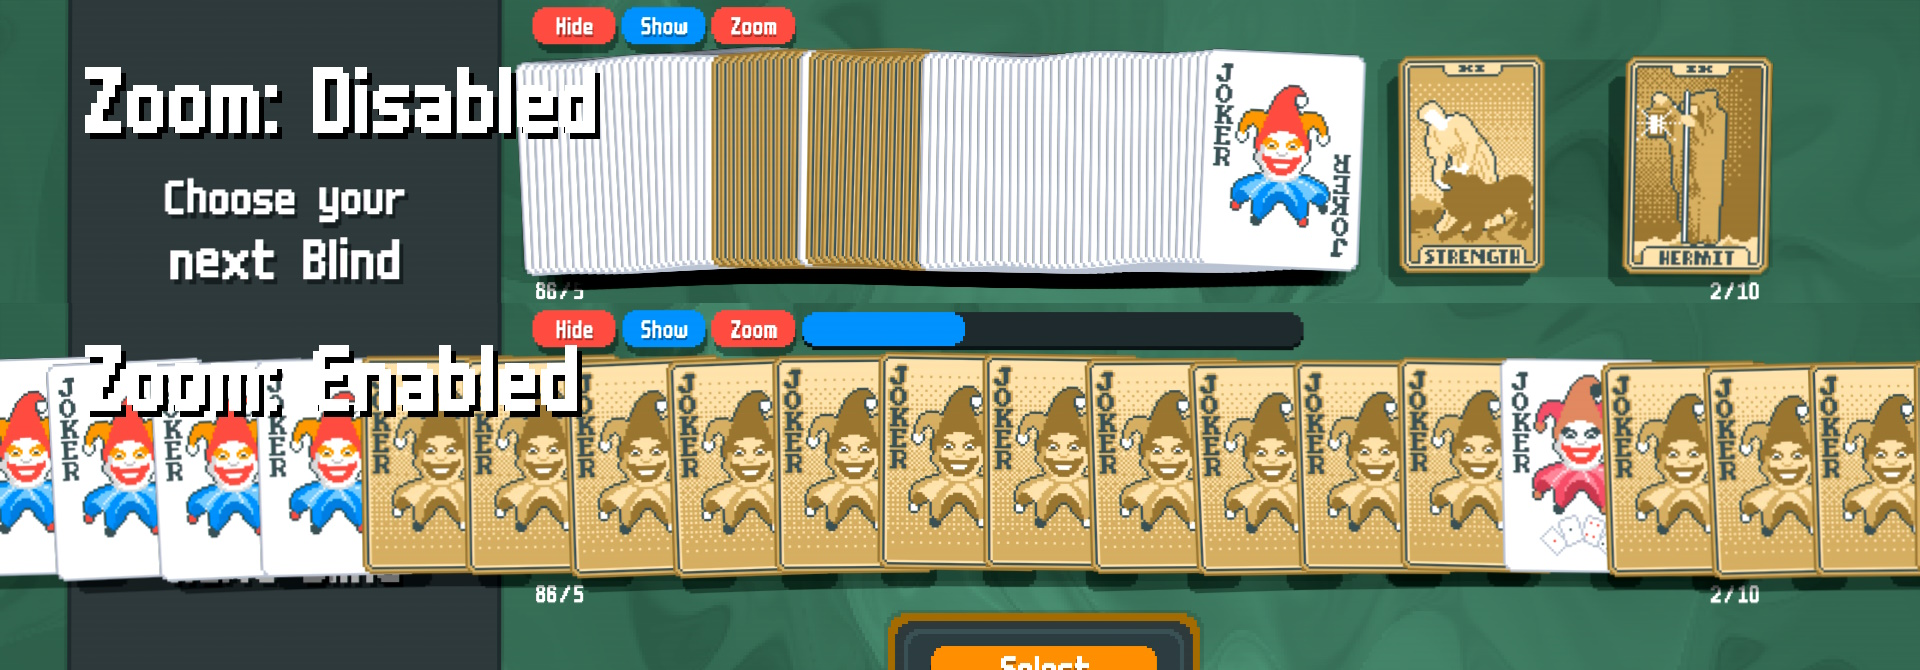
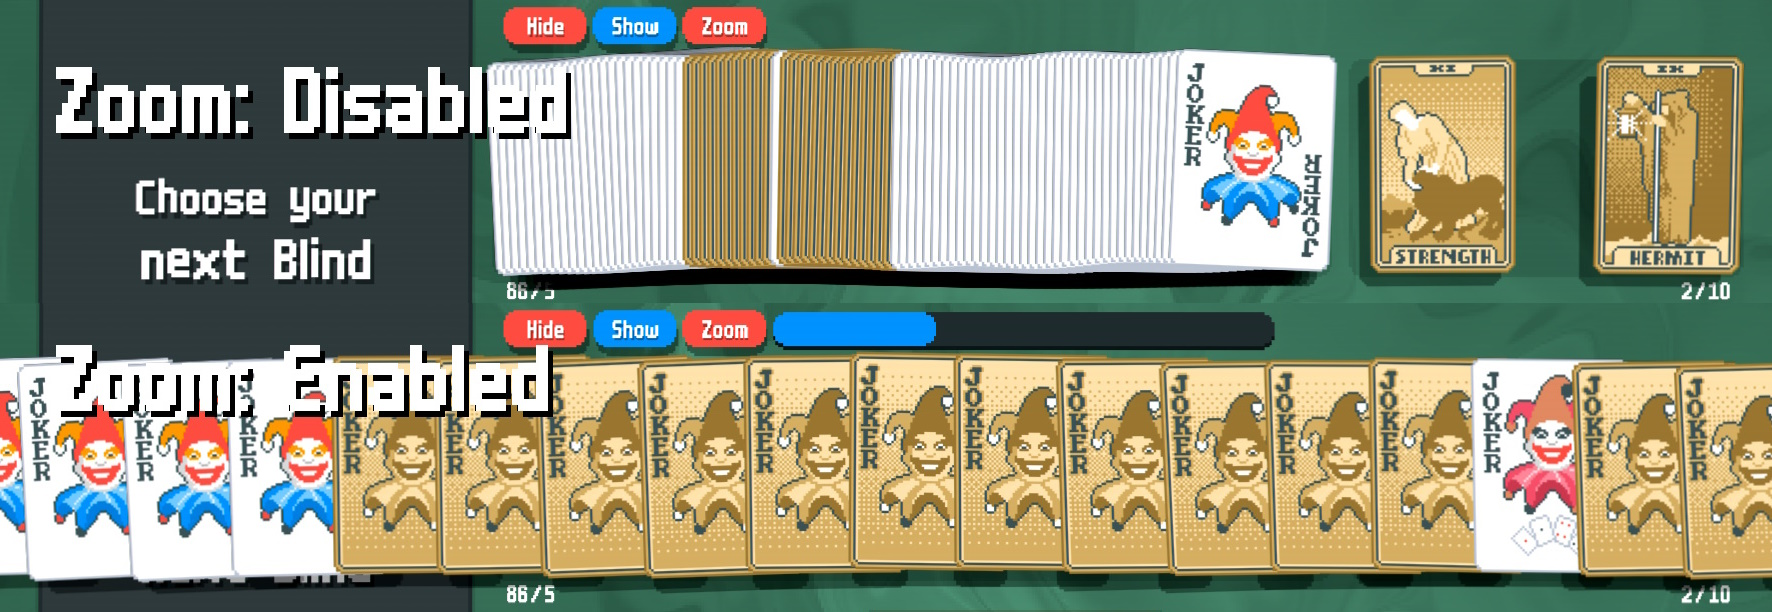
actually fix readme assets, make readme assets smaller

diff --git a/README.md b/README.md
@@ -16,7 +16,7 @@ Useful features for endless/heavily modded runs, but recent additions have been 
 
 ### 1. Limit amount of cards visible in your deck pile
 
-![cards-pile-difference](git-assets/deck-pile.jpg)
+![cards-pile-difference](https://raw.githubusercontent.com/stupxd/Cartomancer/refs/heads/main/git-assets/deck-pile.jpg)
 
 
 ### 2. Improved deck view
@@ -24,7 +24,7 @@ Useful features for endless/heavily modded runs, but recent additions have been 
 - Hide drawn cards
 - Stack identical playing cards
 
-![stackable-cards-difference](git-assets/stackable-cards.jpg)
+![stackable-cards-difference](https://raw.githubusercontent.com/stupxd/Cartomancer/refs/heads/main/git-assets/stackable-cards.jpg)
 
 ### 4. Peek shop while in a Booster pack
 
@@ -32,7 +32,7 @@ Useful features for endless/heavily modded runs, but recent additions have been 
 - Click button to open menu and view details
 - Peek shop menu has mods compatibility; I might add compatibilities with some popular mods later 
 
-![peek-shop](git-assets/peek-shop.jpg)
+![peek-shop](https://raw.githubusercontent.com/stupxd/Cartomancer/refs/heads/main/git-assets/peek-shop.jpg)
 
 
 ### 5. Extended Blinds info in Run Info
@@ -40,7 +40,7 @@ Useful features for endless/heavily modded runs, but recent additions have been 
 - Boss Blinds History
 - Scoring requirements 8 ante ahead
 
-![zoom-jokers-difference](git-assets/blinds-info.jpg)
+![zoom-jokers-difference](https://raw.githubusercontent.com/stupxd/Cartomancer/refs/heads/main/git-assets/blinds-info.jpg)
 
 ### 6. Improved jokers management
 
@@ -48,7 +48,7 @@ Useful features for endless/heavily modded runs, but recent additions have been 
 
 - Zoom into the jokers area for easier jokers management and navigation.
 
-![zoom-jokers-difference](git-assets/zoom-jokers.jpg)
+![zoom-jokers-difference](https://raw.githubusercontent.com/stupxd/Cartomancer/refs/heads/main/git-assets/zoom-jokers.jpg)
 
 ### 7. Custom scoring flames intensity and SFX volume.
 
@@ -56,7 +56,7 @@ Useful features for endless/heavily modded runs, but recent additions have been 
 
 Settings for this mod can be found under `Mods` tab, if you use Steamodded - find `Cartomancer`, and open `Config` tab.
 
-If you play vanilla, go to `Settings` and open ![cartomancer](assets/1x/modicon.png) tab.
+If you play vanilla, go to `Settings` and open ![cartomancer](https://raw.githubusercontent.com/stupxd/Cartomancer/refs/heads/main/assets/1x/modicon.png) tab.
 
 ## Credits
 
